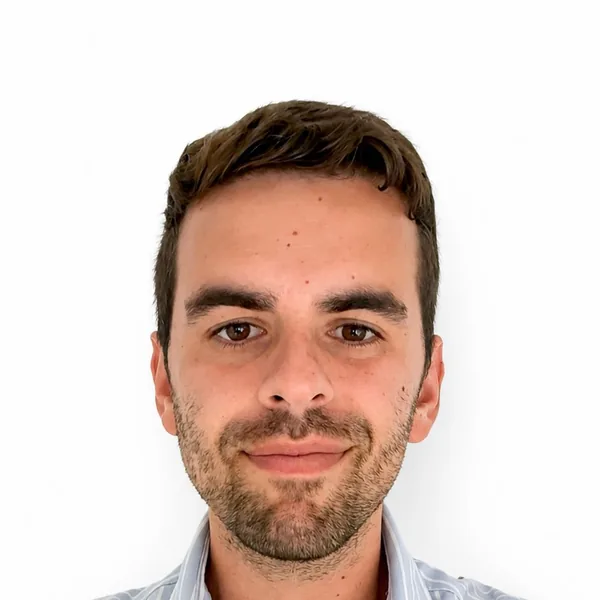
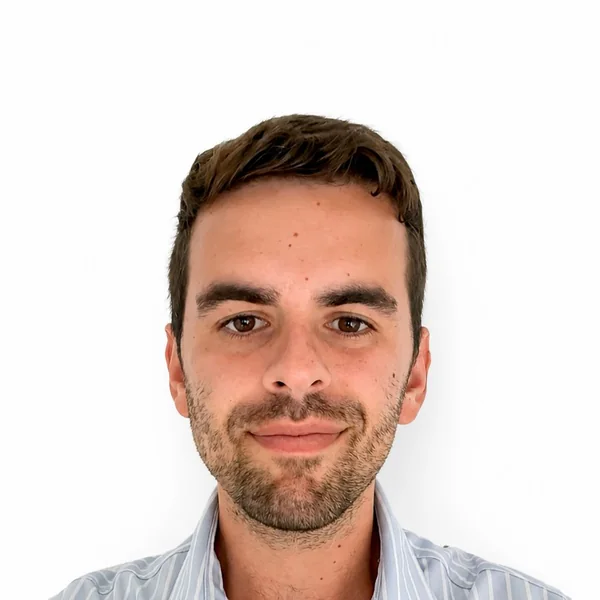
Ajustes de junta y directorio de socios
Socios:
- Se elimina el icono de email de las tarjetas.
- El de LinkedIn pasa a la derecha del nombre, en la misma linea.
- Nombres a nombre + primer apellido. Ester Gomez Quintero se mantiene
  completo: Gomez Quintero es su primer apellido compuesto.

Junta Directiva (Home): solo las caras, en una sola fila. Sin nombre, cargo
ni iconos. El nombre queda como title para quien pase el raton y para
lectores de pantalla.

Encuadres corregidos:
- Juan Francisco, Maria del Mar y Raquel: recorte mas cerrado y centrado en
  la cara, que quedaba alta.
- Juan Alberto: alejado con relleno blanco lateral, aprovechando que su fondo
  es blanco uniforme hasta la altura de los hombros.

Changed region(s): [[0.06, 0.15, 0.96, 1.0]]

diff --git a/Acceso al repositorio lgmp-web/Socios LGMP.dc.html b/Acceso al repositorio lgmp-web/Socios LGMP.dc.html
@@ -64,84 +64,71 @@
         <div data-reveal="true" style="background:#ffffff;border:1px solid rgba(30,42,74,.07);border-radius:22px;overflow:hidden;display:flex;flex-direction:column;transition:transform .25s,box-shadow .25s" style-hover="transform:translateY(-6px);box-shadow:0 18px 40px rgba(30,42,74,.14)">
           <div style="height:300px"><image-slot id="socio-juan-francisco-lopez" shape="rect" placeholder="Foto del socio" src="assets/equipo/juan-francisco-lopez.webp"></image-slot></div>
           <div style="padding:24px 24px 28px;display:flex;flex-direction:column;gap:6px;text-align:left">
-            <h3 style="font-family:'Nunito',sans-serif;font-weight:800;font-size:20px;color:#1E2A4A;margin:0">Juan Francisco López Haro</h3>
+            <div style="display:flex;align-items:center;justify-content:space-between;gap:12px">
+              <h3 style="font-family:'Nunito',sans-serif;font-weight:800;font-size:20px;color:#1E2A4A;margin:0">Juan Francisco López</h3><a href="https://www.linkedin.com/in/juanfranciscolopezharo/" target="_blank" rel="noopener" aria-label="LinkedIn de Juan Francisco López" style="flex:0 0 auto;background:#1E2A4A;color:#ffffff;display:inline-flex;align-items:center;justify-content:center;width:32px;height:32px;border-radius:999px" style-hover="background:#F0503C;color:#ffffff"><svg width="16" height="16" viewBox="0 0 24 24" fill="currentColor"><path d="M4.98 3.5C4.98 4.88 3.87 6 2.5 6S0 4.88 0 3.5 1.12 1 2.5 1 4.98 2.12 4.98 3.5zM.5 8.5h4V23h-4V8.5zM8.5 8.5h3.83v1.98h.05c.53-1 1.83-2.06 3.77-2.06 4.03 0 4.78 2.66 4.78 6.11V23h-4v-6.66c0-1.59-.03-3.63-2.21-3.63-2.22 0-2.56 1.73-2.56 3.52V23h-4V8.5z"/></svg></a>
+            </div>
             <p style="font-family:'Nunito',sans-serif;font-weight:700;font-size:12.5px;letter-spacing:.12em;text-transform:uppercase;color:#F0503C;margin:0">Presidente</p>
             <p style="font-size:14.5px;line-height:1.5;color:rgba(30,42,74,.65);margin:2px 0 0">Growth Manager · FANDIT</p>
-            <div style="display:flex;gap:10px;margin-top:12px">
-              <a href="https://www.linkedin.com/in/juanfranciscolopezharo/" target="_blank" rel="noopener" aria-label="LinkedIn de Juan Francisco López Haro" style="background:#1E2A4A;color:#ffffff;display:inline-flex;align-items:center;justify-content:center;width:38px;height:38px;border-radius:999px" style-hover="background:#F0503C;color:#ffffff"><svg width="18" height="18" viewBox="0 0 24 24" fill="currentColor"><path d="M4.98 3.5C4.98 4.88 3.87 6 2.5 6S0 4.88 0 3.5 1.12 1 2.5 1 4.98 2.12 4.98 3.5zM.5 8.5h4V23h-4V8.5zM8.5 8.5h3.83v1.98h.05c.53-1 1.83-2.06 3.77-2.06 4.03 0 4.78 2.66 4.78 6.11V23h-4v-6.66c0-1.59-.03-3.63-2.21-3.63-2.22 0-2.56 1.73-2.56 3.52V23h-4V8.5z"/></svg></a>
-              <a href="mailto:hola@lageneracionmejorpreparada.com" aria-label="Email" style="border:1.5px solid rgba(30,42,74,.25);color:#1E2A4A;display:inline-flex;align-items:center;justify-content:center;width:38px;height:38px;border-radius:999px" style-hover="border-color:#F0503C;color:#F0503C"><svg width="18" height="18" viewBox="0 0 24 24" fill="none" stroke="currentColor" stroke-width="2" stroke-linecap="round" stroke-linejoin="round"><rect x="3" y="5" width="18" height="14" rx="2"></rect><path d="M3 7l9 6 9-6"></path></svg></a>
-            </div>
           </div>
         </div>
         <div data-reveal="true" style="background:#ffffff;border:1px solid rgba(30,42,74,.07);border-radius:22px;overflow:hidden;display:flex;flex-direction:column;transition:transform .25s,box-shadow .25s" style-hover="transform:translateY(-6px);box-shadow:0 18px 40px rgba(30,42,74,.14)">
           <div style="height:300px"><image-slot id="socio-maria-del-mar-lopez" shape="rect" placeholder="Foto del socio" src="assets/equipo/maria-del-mar-lopez.webp"></image-slot></div>
           <div style="padding:24px 24px 28px;display:flex;flex-direction:column;gap:6px;text-align:left">
-            <h3 style="font-family:'Nunito',sans-serif;font-weight:800;font-size:20px;color:#1E2A4A;margin:0">María del Mar López Haro</h3>
+            <div style="display:flex;align-items:center;justify-content:space-between;gap:12px">
+              <h3 style="font-family:'Nunito',sans-serif;font-weight:800;font-size:20px;color:#1E2A4A;margin:0">María del Mar López</h3><a href="https://www.linkedin.com/in/mariamarlopezharo/" target="_blank" rel="noopener" aria-label="LinkedIn de María del Mar López" style="flex:0 0 auto;background:#1E2A4A;color:#ffffff;display:inline-flex;align-items:center;justify-content:center;width:32px;height:32px;border-radius:999px" style-hover="background:#F0503C;color:#ffffff"><svg width="16" height="16" viewBox="0 0 24 24" fill="currentColor"><path d="M4.98 3.5C4.98 4.88 3.87 6 2.5 6S0 4.88 0 3.5 1.12 1 2.5 1 4.98 2.12 4.98 3.5zM.5 8.5h4V23h-4V8.5zM8.5 8.5h3.83v1.98h.05c.53-1 1.83-2.06 3.77-2.06 4.03 0 4.78 2.66 4.78 6.11V23h-4v-6.66c0-1.59-.03-3.63-2.21-3.63-2.22 0-2.56 1.73-2.56 3.52V23h-4V8.5z"/></svg></a>
+            </div>
             <p style="font-family:'Nunito',sans-serif;font-weight:700;font-size:12.5px;letter-spacing:.12em;text-transform:uppercase;color:#F0503C;margin:0">Secretaria</p>
             <p style="font-size:14.5px;line-height:1.5;color:rgba(30,42,74,.65);margin:2px 0 0">HR Specialist · Sacyr</p>
-            <div style="display:flex;gap:10px;margin-top:12px">
-              <a href="https://www.linkedin.com/in/mariamarlopezharo/" target="_blank" rel="noopener" aria-label="LinkedIn de María del Mar López Haro" style="background:#1E2A4A;color:#ffffff;display:inline-flex;align-items:center;justify-content:center;width:38px;height:38px;border-radius:999px" style-hover="background:#F0503C;color:#ffffff"><svg width="18" height="18" viewBox="0 0 24 24" fill="currentColor"><path d="M4.98 3.5C4.98 4.88 3.87 6 2.5 6S0 4.88 0 3.5 1.12 1 2.5 1 4.98 2.12 4.98 3.5zM.5 8.5h4V23h-4V8.5zM8.5 8.5h3.83v1.98h.05c.53-1 1.83-2.06 3.77-2.06 4.03 0 4.78 2.66 4.78 6.11V23h-4v-6.66c0-1.59-.03-3.63-2.21-3.63-2.22 0-2.56 1.73-2.56 3.52V23h-4V8.5z"/></svg></a>
-              <a href="mailto:hola@lageneracionmejorpreparada.com" aria-label="Email" style="border:1.5px solid rgba(30,42,74,.25);color:#1E2A4A;display:inline-flex;align-items:center;justify-content:center;width:38px;height:38px;border-radius:999px" style-hover="border-color:#F0503C;color:#F0503C"><svg width="18" height="18" viewBox="0 0 24 24" fill="none" stroke="currentColor" stroke-width="2" stroke-linecap="round" stroke-linejoin="round"><rect x="3" y="5" width="18" height="14" rx="2"></rect><path d="M3 7l9 6 9-6"></path></svg></a>
-            </div>
           </div>
         </div>
         <div data-reveal="true" style="background:#ffffff;border:1px solid rgba(30,42,74,.07);border-radius:22px;overflow:hidden;display:flex;flex-direction:column;transition:transform .25s,box-shadow .25s" style-hover="transform:translateY(-6px);box-shadow:0 18px 40px rgba(30,42,74,.14)">
           <div style="height:300px"><image-slot id="socio-juan-alberto-correas" shape="rect" placeholder="Foto del socio" src="assets/equipo/juan-alberto-correas.webp"></image-slot></div>
           <div style="padding:24px 24px 28px;display:flex;flex-direction:column;gap:6px;text-align:left">
-            <h3 style="font-family:'Nunito',sans-serif;font-weight:800;font-size:20px;color:#1E2A4A;margin:0">Juan Alberto Correas García</h3>
+            <div style="display:flex;align-items:center;justify-content:space-between;gap:12px">
+              <h3 style="font-family:'Nunito',sans-serif;font-weight:800;font-size:20px;color:#1E2A4A;margin:0">Juan Alberto Correas</h3><a href="https://www.linkedin.com/in/juanalbertocorreas/" target="_blank" rel="noopener" aria-label="LinkedIn de Juan Alberto Correas" style="flex:0 0 auto;background:#1E2A4A;color:#ffffff;display:inline-flex;align-items:center;justify-content:center;width:32px;height:32px;border-radius:999px" style-hover="background:#F0503C;color:#ffffff"><svg width="16" height="16" viewBox="0 0 24 24" fill="currentColor"><path d="M4.98 3.5C4.98 4.88 3.87 6 2.5 6S0 4.88 0 3.5 1.12 1 2.5 1 4.98 2.12 4.98 3.5zM.5 8.5h4V23h-4V8.5zM8.5 8.5h3.83v1.98h.05c.53-1 1.83-2.06 3.77-2.06 4.03 0 4.78 2.66 4.78 6.11V23h-4v-6.66c0-1.59-.03-3.63-2.21-3.63-2.22 0-2.56 1.73-2.56 3.52V23h-4V8.5z"/></svg></a>
+            </div>
             <p style="font-family:'Nunito',sans-serif;font-weight:700;font-size:12.5px;letter-spacing:.12em;text-transform:uppercase;color:#F0503C;margin:0">Tesorero</p>
             <p style="font-size:14.5px;line-height:1.5;color:rgba(30,42,74,.65);margin:2px 0 0">Director Financiero · New Capital 2000</p>
-            <div style="display:flex;gap:10px;margin-top:12px">
-              <a href="https://www.linkedin.com/in/juanalbertocorreas/" target="_blank" rel="noopener" aria-label="LinkedIn de Juan Alberto Correas García" style="background:#1E2A4A;color:#ffffff;display:inline-flex;align-items:center;justify-content:center;width:38px;height:38px;border-radius:999px" style-hover="background:#F0503C;color:#ffffff"><svg width="18" height="18" viewBox="0 0 24 24" fill="currentColor"><path d="M4.98 3.5C4.98 4.88 3.87 6 2.5 6S0 4.88 0 3.5 1.12 1 2.5 1 4.98 2.12 4.98 3.5zM.5 8.5h4V23h-4V8.5zM8.5 8.5h3.83v1.98h.05c.53-1 1.83-2.06 3.77-2.06 4.03 0 4.78 2.66 4.78 6.11V23h-4v-6.66c0-1.59-.03-3.63-2.21-3.63-2.22 0-2.56 1.73-2.56 3.52V23h-4V8.5z"/></svg></a>
-              <a href="mailto:hola@lageneracionmejorpreparada.com" aria-label="Email" style="border:1.5px solid rgba(30,42,74,.25);color:#1E2A4A;display:inline-flex;align-items:center;justify-content:center;width:38px;height:38px;border-radius:999px" style-hover="border-color:#F0503C;color:#F0503C"><svg width="18" height="18" viewBox="0 0 24 24" fill="none" stroke="currentColor" stroke-width="2" stroke-linecap="round" stroke-linejoin="round"><rect x="3" y="5" width="18" height="14" rx="2"></rect><path d="M3 7l9 6 9-6"></path></svg></a>
-            </div>
           </div>
         </div>
         <div data-reveal="true" style="background:#ffffff;border:1px solid rgba(30,42,74,.07);border-radius:22px;overflow:hidden;display:flex;flex-direction:column;transition:transform .25s,box-shadow .25s" style-hover="transform:translateY(-6px);box-shadow:0 18px 40px rgba(30,42,74,.14)">
           <div style="height:300px"><image-slot id="socio-raquel-martinez" shape="rect" placeholder="Foto del socio" src="assets/equipo/raquel-martinez.webp"></image-slot></div>
           <div style="padding:24px 24px 28px;display:flex;flex-direction:column;gap:6px;text-align:left">
-            <h3 style="font-family:'Nunito',sans-serif;font-weight:800;font-size:20px;color:#1E2A4A;margin:0">Raquel Martínez</h3>
+            <div style="display:flex;align-items:center;justify-content:space-between;gap:12px">
+              <h3 style="font-family:'Nunito',sans-serif;font-weight:800;font-size:20px;color:#1E2A4A;margin:0">Raquel Martínez</h3><a href="https://www.linkedin.com/in/raquelmartinezzn/" target="_blank" rel="noopener" aria-label="LinkedIn de Raquel Martínez" style="flex:0 0 auto;background:#1E2A4A;color:#ffffff;display:inline-flex;align-items:center;justify-content:center;width:32px;height:32px;border-radius:999px" style-hover="background:#F0503C;color:#ffffff"><svg width="16" height="16" viewBox="0 0 24 24" fill="currentColor"><path d="M4.98 3.5C4.98 4.88 3.87 6 2.5 6S0 4.88 0 3.5 1.12 1 2.5 1 4.98 2.12 4.98 3.5zM.5 8.5h4V23h-4V8.5zM8.5 8.5h3.83v1.98h.05c.53-1 1.83-2.06 3.77-2.06 4.03 0 4.78 2.66 4.78 6.11V23h-4v-6.66c0-1.59-.03-3.63-2.21-3.63-2.22 0-2.56 1.73-2.56 3.52V23h-4V8.5z"/></svg></a>
+            </div>
             <p style="font-family:'Nunito',sans-serif;font-weight:700;font-size:12.5px;letter-spacing:.12em;text-transform:uppercase;color:#F0503C;margin:0">Vocal</p>
             <p style="font-size:14.5px;line-height:1.5;color:rgba(30,42,74,.65);margin:2px 0 0">Sales Manager · SNAP</p>
-            <div style="display:flex;gap:10px;margin-top:12px">
-              <a href="https://www.linkedin.com/in/raquelmartinezzn/" target="_blank" rel="noopener" aria-label="LinkedIn de Raquel Martínez" style="background:#1E2A4A;color:#ffffff;display:inline-flex;align-items:center;justify-content:center;width:38px;height:38px;border-radius:999px" style-hover="background:#F0503C;color:#ffffff"><svg width="18" height="18" viewBox="0 0 24 24" fill="currentColor"><path d="M4.98 3.5C4.98 4.88 3.87 6 2.5 6S0 4.88 0 3.5 1.12 1 2.5 1 4.98 2.12 4.98 3.5zM.5 8.5h4V23h-4V8.5zM8.5 8.5h3.83v1.98h.05c.53-1 1.83-2.06 3.77-2.06 4.03 0 4.78 2.66 4.78 6.11V23h-4v-6.66c0-1.59-.03-3.63-2.21-3.63-2.22 0-2.56 1.73-2.56 3.52V23h-4V8.5z"/></svg></a>
-              <a href="mailto:hola@lageneracionmejorpreparada.com" aria-label="Email" style="border:1.5px solid rgba(30,42,74,.25);color:#1E2A4A;display:inline-flex;align-items:center;justify-content:center;width:38px;height:38px;border-radius:999px" style-hover="border-color:#F0503C;color:#F0503C"><svg width="18" height="18" viewBox="0 0 24 24" fill="none" stroke="currentColor" stroke-width="2" stroke-linecap="round" stroke-linejoin="round"><rect x="3" y="5" width="18" height="14" rx="2"></rect><path d="M3 7l9 6 9-6"></path></svg></a>
-            </div>
           </div>
         </div>
         <div data-reveal="true" style="background:#ffffff;border:1px solid rgba(30,42,74,.07);border-radius:22px;overflow:hidden;display:flex;flex-direction:column;transition:transform .25s,box-shadow .25s" style-hover="transform:translateY(-6px);box-shadow:0 18px 40px rgba(30,42,74,.14)">
           <div style="height:300px"><image-slot id="socio-ester-gomez" shape="rect" placeholder="Foto del socio" src="assets/equipo/ester-gomez.webp"></image-slot></div>
           <div style="padding:24px 24px 28px;display:flex;flex-direction:column;gap:6px;text-align:left">
-            <h3 style="font-family:'Nunito',sans-serif;font-weight:800;font-size:20px;color:#1E2A4A;margin:0">Ester Gómez Quintero</h3>
+            <div style="display:flex;align-items:center;justify-content:space-between;gap:12px">
+              <h3 style="font-family:'Nunito',sans-serif;font-weight:800;font-size:20px;color:#1E2A4A;margin:0">Ester Gómez Quintero</h3>
+            </div>
             <p style="font-family:'Nunito',sans-serif;font-weight:700;font-size:12.5px;letter-spacing:.12em;text-transform:uppercase;color:#F0503C;margin:0">Vocal</p>
             <p style="font-size:14.5px;line-height:1.5;color:rgba(30,42,74,.65);margin:2px 0 0">Educadora</p>
-            <div style="display:flex;gap:10px;margin-top:12px">
-              <a href="mailto:hola@lageneracionmejorpreparada.com" aria-label="Email" style="border:1.5px solid rgba(30,42,74,.25);color:#1E2A4A;display:inline-flex;align-items:center;justify-content:center;width:38px;height:38px;border-radius:999px" style-hover="border-color:#F0503C;color:#F0503C"><svg width="18" height="18" viewBox="0 0 24 24" fill="none" stroke="currentColor" stroke-width="2" stroke-linecap="round" stroke-linejoin="round"><rect x="3" y="5" width="18" height="14" rx="2"></rect><path d="M3 7l9 6 9-6"></path></svg></a>
-            </div>
           </div>
         </div>
         <div data-reveal="true" style="background:#ffffff;border:1px solid rgba(30,42,74,.07);border-radius:22px;overflow:hidden;display:flex;flex-direction:column;transition:transform .25s,box-shadow .25s" style-hover="transform:translateY(-6px);box-shadow:0 18px 40px rgba(30,42,74,.14)">
           <div style="height:300px"><image-slot id="socio-borja-villalgordo" shape="rect" placeholder="Foto del socio" src="assets/equipo/borja-villalgordo.webp"></image-slot></div>
           <div style="padding:24px 24px 28px;display:flex;flex-direction:column;gap:6px;text-align:left">
-            <h3 style="font-family:'Nunito',sans-serif;font-weight:800;font-size:20px;color:#1E2A4A;margin:0">Borja Villalgordo</h3>
+            <div style="display:flex;align-items:center;justify-content:space-between;gap:12px">
+              <h3 style="font-family:'Nunito',sans-serif;font-weight:800;font-size:20px;color:#1E2A4A;margin:0">Borja Villalgordo</h3><a href="https://www.linkedin.com/in/borjavillalgordo/" target="_blank" rel="noopener" aria-label="LinkedIn de Borja Villalgordo" style="flex:0 0 auto;background:#1E2A4A;color:#ffffff;display:inline-flex;align-items:center;justify-content:center;width:32px;height:32px;border-radius:999px" style-hover="background:#F0503C;color:#ffffff"><svg width="16" height="16" viewBox="0 0 24 24" fill="currentColor"><path d="M4.98 3.5C4.98 4.88 3.87 6 2.5 6S0 4.88 0 3.5 1.12 1 2.5 1 4.98 2.12 4.98 3.5zM.5 8.5h4V23h-4V8.5zM8.5 8.5h3.83v1.98h.05c.53-1 1.83-2.06 3.77-2.06 4.03 0 4.78 2.66 4.78 6.11V23h-4v-6.66c0-1.59-.03-3.63-2.21-3.63-2.22 0-2.56 1.73-2.56 3.52V23h-4V8.5z"/></svg></a>
+            </div>
             <p style="font-family:'Nunito',sans-serif;font-weight:700;font-size:12.5px;letter-spacing:.12em;text-transform:uppercase;color:#F0503C;margin:0">Vocal</p>
             <p style="font-size:14.5px;line-height:1.5;color:rgba(30,42,74,.65);margin:2px 0 0">Director Financiero · Navilens</p>
-            <div style="display:flex;gap:10px;margin-top:12px">
-              <a href="https://www.linkedin.com/in/borjavillalgordo/" target="_blank" rel="noopener" aria-label="LinkedIn de Borja Villalgordo" style="background:#1E2A4A;color:#ffffff;display:inline-flex;align-items:center;justify-content:center;width:38px;height:38px;border-radius:999px" style-hover="background:#F0503C;color:#ffffff"><svg width="18" height="18" viewBox="0 0 24 24" fill="currentColor"><path d="M4.98 3.5C4.98 4.88 3.87 6 2.5 6S0 4.88 0 3.5 1.12 1 2.5 1 4.98 2.12 4.98 3.5zM.5 8.5h4V23h-4V8.5zM8.5 8.5h3.83v1.98h.05c.53-1 1.83-2.06 3.77-2.06 4.03 0 4.78 2.66 4.78 6.11V23h-4v-6.66c0-1.59-.03-3.63-2.21-3.63-2.22 0-2.56 1.73-2.56 3.52V23h-4V8.5z"/></svg></a>
-              <a href="mailto:hola@lageneracionmejorpreparada.com" aria-label="Email" style="border:1.5px solid rgba(30,42,74,.25);color:#1E2A4A;display:inline-flex;align-items:center;justify-content:center;width:38px;height:38px;border-radius:999px" style-hover="border-color:#F0503C;color:#F0503C"><svg width="18" height="18" viewBox="0 0 24 24" fill="none" stroke="currentColor" stroke-width="2" stroke-linecap="round" stroke-linejoin="round"><rect x="3" y="5" width="18" height="14" rx="2"></rect><path d="M3 7l9 6 9-6"></path></svg></a>
-            </div>
           </div>
         </div>
         <div data-reveal="true" style="background:#ffffff;border:1px solid rgba(30,42,74,.07);border-radius:22px;overflow:hidden;display:flex;flex-direction:column;transition:transform .25s,box-shadow .25s" style-hover="transform:translateY(-6px);box-shadow:0 18px 40px rgba(30,42,74,.14)">
           <div style="height:300px"><image-slot id="socio-alvaro-morlan" shape="rect" placeholder="Foto del socio" src="assets/equipo/alvaro-morlan.webp"></image-slot></div>
           <div style="padding:24px 24px 28px;display:flex;flex-direction:column;gap:6px;text-align:left">
-            <h3 style="font-family:'Nunito',sans-serif;font-weight:800;font-size:20px;color:#1E2A4A;margin:0">Álvaro Morlán</h3>
+            <div style="display:flex;align-items:center;justify-content:space-between;gap:12px">
+              <h3 style="font-family:'Nunito',sans-serif;font-weight:800;font-size:20px;color:#1E2A4A;margin:0">Álvaro Morlán</h3><a href="https://www.linkedin.com/in/alvaro-morlan-melero-0759261ba/" target="_blank" rel="noopener" aria-label="LinkedIn de Álvaro Morlán" style="flex:0 0 auto;background:#1E2A4A;color:#ffffff;display:inline-flex;align-items:center;justify-content:center;width:32px;height:32px;border-radius:999px" style-hover="background:#F0503C;color:#ffffff"><svg width="16" height="16" viewBox="0 0 24 24" fill="currentColor"><path d="M4.98 3.5C4.98 4.88 3.87 6 2.5 6S0 4.88 0 3.5 1.12 1 2.5 1 4.98 2.12 4.98 3.5zM.5 8.5h4V23h-4V8.5zM8.5 8.5h3.83v1.98h.05c.53-1 1.83-2.06 3.77-2.06 4.03 0 4.78 2.66 4.78 6.11V23h-4v-6.66c0-1.59-.03-3.63-2.21-3.63-2.22 0-2.56 1.73-2.56 3.52V23h-4V8.5z"/></svg></a>
+            </div>
             <p style="font-family:'Nunito',sans-serif;font-weight:700;font-size:12.5px;letter-spacing:.12em;text-transform:uppercase;color:#F0503C;margin:0">Vocal</p>
             <p style="font-size:14.5px;line-height:1.5;color:rgba(30,42,74,.65);margin:2px 0 0">Fundador · Subvenplus</p>
-            <div style="display:flex;gap:10px;margin-top:12px">
-              <a href="https://www.linkedin.com/in/alvaro-morlan-melero-0759261ba/" target="_blank" rel="noopener" aria-label="LinkedIn de Álvaro Morlán" style="background:#1E2A4A;color:#ffffff;display:inline-flex;align-items:center;justify-content:center;width:38px;height:38px;border-radius:999px" style-hover="background:#F0503C;color:#ffffff"><svg width="18" height="18" viewBox="0 0 24 24" fill="currentColor"><path d="M4.98 3.5C4.98 4.88 3.87 6 2.5 6S0 4.88 0 3.5 1.12 1 2.5 1 4.98 2.12 4.98 3.5zM.5 8.5h4V23h-4V8.5zM8.5 8.5h3.83v1.98h.05c.53-1 1.83-2.06 3.77-2.06 4.03 0 4.78 2.66 4.78 6.11V23h-4v-6.66c0-1.59-.03-3.63-2.21-3.63-2.22 0-2.56 1.73-2.56 3.52V23h-4V8.5z"/></svg></a>
-              <a href="mailto:hola@lageneracionmejorpreparada.com" aria-label="Email" style="border:1.5px solid rgba(30,42,74,.25);color:#1E2A4A;display:inline-flex;align-items:center;justify-content:center;width:38px;height:38px;border-radius:999px" style-hover="border-color:#F0503C;color:#F0503C"><svg width="18" height="18" viewBox="0 0 24 24" fill="none" stroke="currentColor" stroke-width="2" stroke-linecap="round" stroke-linejoin="round"><rect x="3" y="5" width="18" height="14" rx="2"></rect><path d="M3 7l9 6 9-6"></path></svg></a>
-            </div>
           </div>
         </div>
       </div>

diff --git a/Acceso al repositorio lgmp-web/Home LGMP.dc.html b/Acceso al repositorio lgmp-web/Home LGMP.dc.html
@@ -131,48 +131,15 @@
       <div data-reveal="true" style="text-align:left;margin:0 0 48px">
         <h2 style="font-family:'Nunito',sans-serif;font-weight:900;font-size:clamp(28px,3.2vw,40px);line-height:1.12;color:#1E2A4A;margin:0">Junta Directiva</h2>
       </div>
-      <div style="display:flex;flex-wrap:wrap;justify-content:flex-start;gap:28px">
-        <div data-reveal="true" style="width:270px;background:#ffffff;border-radius:22px;padding:34px 24px;text-align:center;border:1px solid rgba(30,42,74,.07);transition:transform .25s,box-shadow .25s" style-hover="transform:translateY(-6px);box-shadow:0 18px 40px rgba(30,42,74,.14)">
-          <div style="width:150px;height:150px;margin:0 auto"><image-slot id="foto-presidente" shape="circle" placeholder="Foto" src="assets/equipo/juan-francisco-lopez.webp"></image-slot></div>
-          <h3 style="font-family:'Nunito',sans-serif;font-weight:800;font-size:20px;color:#1E2A4A;margin:20px 0 4px">Juan Francisco López Haro</h3>
-          <p style="font-family:'Nunito',sans-serif;font-weight:700;font-size:14px;letter-spacing:.08em;text-transform:uppercase;color:#F0503C;margin:0">Presidente</p>
-          <div style="display:flex;justify-content:center;margin-top:16px"><a href="https://www.linkedin.com/in/juanfranciscolopezharo/" target="_blank" rel="noopener" aria-label="LinkedIn de Juan Francisco López Haro" style="background:#1E2A4A;color:#ffffff;display:inline-flex;align-items:center;justify-content:center;width:38px;height:38px;border-radius:999px" style-hover="background:#F0503C;color:#ffffff"><svg width="18" height="18" viewBox="0 0 24 24" fill="currentColor"><path d="M4.98 3.5C4.98 4.88 3.87 6 2.5 6S0 4.88 0 3.5 1.12 1 2.5 1 4.98 2.12 4.98 3.5zM.5 8.5h4V23h-4V8.5zM8.5 8.5h3.83v1.98h.05c.53-1 1.83-2.06 3.77-2.06 4.03 0 4.78 2.66 4.78 6.11V23h-4v-6.66c0-1.59-.03-3.63-2.21-3.63-2.22 0-2.56 1.73-2.56 3.52V23h-4V8.5z"/></svg></a></div>
-        </div>
-        <div data-reveal="true" style="width:270px;background:#ffffff;border-radius:22px;padding:34px 24px;text-align:center;border:1px solid rgba(30,42,74,.07);transition:transform .25s,box-shadow .25s" style-hover="transform:translateY(-6px);box-shadow:0 18px 40px rgba(30,42,74,.14)">
-          <div style="width:150px;height:150px;margin:0 auto"><image-slot id="foto-secretaria" shape="circle" placeholder="Foto" src="assets/equipo/maria-del-mar-lopez.webp"></image-slot></div>
-          <h3 style="font-family:'Nunito',sans-serif;font-weight:800;font-size:20px;color:#1E2A4A;margin:20px 0 4px">María del Mar López Haro</h3>
-          <p style="font-family:'Nunito',sans-serif;font-weight:700;font-size:14px;letter-spacing:.08em;text-transform:uppercase;color:#F0503C;margin:0">Secretaria</p>
-          <div style="display:flex;justify-content:center;margin-top:16px"><a href="https://www.linkedin.com/in/mariamarlopezharo/" target="_blank" rel="noopener" aria-label="LinkedIn de María del Mar López Haro" style="background:#1E2A4A;color:#ffffff;display:inline-flex;align-items:center;justify-content:center;width:38px;height:38px;border-radius:999px" style-hover="background:#F0503C;color:#ffffff"><svg width="18" height="18" viewBox="0 0 24 24" fill="currentColor"><path d="M4.98 3.5C4.98 4.88 3.87 6 2.5 6S0 4.88 0 3.5 1.12 1 2.5 1 4.98 2.12 4.98 3.5zM.5 8.5h4V23h-4V8.5zM8.5 8.5h3.83v1.98h.05c.53-1 1.83-2.06 3.77-2.06 4.03 0 4.78 2.66 4.78 6.11V23h-4v-6.66c0-1.59-.03-3.63-2.21-3.63-2.22 0-2.56 1.73-2.56 3.52V23h-4V8.5z"/></svg></a></div>
-        </div>
-        <div data-reveal="true" style="width:270px;background:#ffffff;border-radius:22px;padding:34px 24px;text-align:center;border:1px solid rgba(30,42,74,.07);transition:transform .25s,box-shadow .25s" style-hover="transform:translateY(-6px);box-shadow:0 18px 40px rgba(30,42,74,.14)">
-          <div style="width:150px;height:150px;margin:0 auto"><image-slot id="foto-tesorero" shape="circle" placeholder="Foto" src="assets/equipo/juan-alberto-correas.webp"></image-slot></div>
-          <h3 style="font-family:'Nunito',sans-serif;font-weight:800;font-size:20px;color:#1E2A4A;margin:20px 0 4px">Juan Alberto Correas García</h3>
-          <p style="font-family:'Nunito',sans-serif;font-weight:700;font-size:14px;letter-spacing:.08em;text-transform:uppercase;color:#F0503C;margin:0">Tesorero</p>
-          <div style="display:flex;justify-content:center;margin-top:16px"><a href="https://www.linkedin.com/in/juanalbertocorreas/" target="_blank" rel="noopener" aria-label="LinkedIn de Juan Alberto Correas García" style="background:#1E2A4A;color:#ffffff;display:inline-flex;align-items:center;justify-content:center;width:38px;height:38px;border-radius:999px" style-hover="background:#F0503C;color:#ffffff"><svg width="18" height="18" viewBox="0 0 24 24" fill="currentColor"><path d="M4.98 3.5C4.98 4.88 3.87 6 2.5 6S0 4.88 0 3.5 1.12 1 2.5 1 4.98 2.12 4.98 3.5zM.5 8.5h4V23h-4V8.5zM8.5 8.5h3.83v1.98h.05c.53-1 1.83-2.06 3.77-2.06 4.03 0 4.78 2.66 4.78 6.11V23h-4v-6.66c0-1.59-.03-3.63-2.21-3.63-2.22 0-2.56 1.73-2.56 3.52V23h-4V8.5z"/></svg></a></div>
-        </div>
-        <div data-reveal="true" style="width:270px;background:#ffffff;border-radius:22px;padding:34px 24px;text-align:center;border:1px solid rgba(30,42,74,.07);transition:transform .25s,box-shadow .25s" style-hover="transform:translateY(-6px);box-shadow:0 18px 40px rgba(30,42,74,.14)">
-          <div style="width:150px;height:150px;margin:0 auto"><image-slot id="foto-vocal-raquel" shape="circle" placeholder="Foto" src="assets/equipo/raquel-martinez.webp"></image-slot></div>
-          <h3 style="font-family:'Nunito',sans-serif;font-weight:800;font-size:20px;color:#1E2A4A;margin:20px 0 4px">Raquel Martínez</h3>
-          <p style="font-family:'Nunito',sans-serif;font-weight:700;font-size:14px;letter-spacing:.08em;text-transform:uppercase;color:#F0503C;margin:0">Vocal</p>
-          <div style="display:flex;justify-content:center;margin-top:16px"><a href="https://www.linkedin.com/in/raquelmartinezzn/" target="_blank" rel="noopener" aria-label="LinkedIn de Raquel Martínez" style="background:#1E2A4A;color:#ffffff;display:inline-flex;align-items:center;justify-content:center;width:38px;height:38px;border-radius:999px" style-hover="background:#F0503C;color:#ffffff"><svg width="18" height="18" viewBox="0 0 24 24" fill="currentColor"><path d="M4.98 3.5C4.98 4.88 3.87 6 2.5 6S0 4.88 0 3.5 1.12 1 2.5 1 4.98 2.12 4.98 3.5zM.5 8.5h4V23h-4V8.5zM8.5 8.5h3.83v1.98h.05c.53-1 1.83-2.06 3.77-2.06 4.03 0 4.78 2.66 4.78 6.11V23h-4v-6.66c0-1.59-.03-3.63-2.21-3.63-2.22 0-2.56 1.73-2.56 3.52V23h-4V8.5z"/></svg></a></div>
-        </div>
-        <div data-reveal="true" style="width:270px;background:#ffffff;border-radius:22px;padding:34px 24px;text-align:center;border:1px solid rgba(30,42,74,.07);transition:transform .25s,box-shadow .25s" style-hover="transform:translateY(-6px);box-shadow:0 18px 40px rgba(30,42,74,.14)">
-          <div style="width:150px;height:150px;margin:0 auto"><image-slot id="foto-vocal-ester" shape="circle" placeholder="Foto" src="assets/equipo/ester-gomez.webp"></image-slot></div>
-          <h3 style="font-family:'Nunito',sans-serif;font-weight:800;font-size:20px;color:#1E2A4A;margin:20px 0 4px">Ester Gómez Quintero</h3>
-          <p style="font-family:'Nunito',sans-serif;font-weight:700;font-size:14px;letter-spacing:.08em;text-transform:uppercase;color:#F0503C;margin:0">Vocal</p>
-        </div>
-        <div data-reveal="true" style="width:270px;background:#ffffff;border-radius:22px;padding:34px 24px;text-align:center;border:1px solid rgba(30,42,74,.07);transition:transform .25s,box-shadow .25s" style-hover="transform:translateY(-6px);box-shadow:0 18px 40px rgba(30,42,74,.14)">
-          <div style="width:150px;height:150px;margin:0 auto"><image-slot id="foto-vocal-borja" shape="circle" placeholder="Foto" src="assets/equipo/borja-villalgordo.webp"></image-slot></div>
-          <h3 style="font-family:'Nunito',sans-serif;font-weight:800;font-size:20px;color:#1E2A4A;margin:20px 0 4px">Borja Villalgordo</h3>
-          <p style="font-family:'Nunito',sans-serif;font-weight:700;font-size:14px;letter-spacing:.08em;text-transform:uppercase;color:#F0503C;margin:0">Vocal</p>
-          <div style="display:flex;justify-content:center;margin-top:16px"><a href="https://www.linkedin.com/in/borjavillalgordo/" target="_blank" rel="noopener" aria-label="LinkedIn de Borja Villalgordo" style="background:#1E2A4A;color:#ffffff;display:inline-flex;align-items:center;justify-content:center;width:38px;height:38px;border-radius:999px" style-hover="background:#F0503C;color:#ffffff"><svg width="18" height="18" viewBox="0 0 24 24" fill="currentColor"><path d="M4.98 3.5C4.98 4.88 3.87 6 2.5 6S0 4.88 0 3.5 1.12 1 2.5 1 4.98 2.12 4.98 3.5zM.5 8.5h4V23h-4V8.5zM8.5 8.5h3.83v1.98h.05c.53-1 1.83-2.06 3.77-2.06 4.03 0 4.78 2.66 4.78 6.11V23h-4v-6.66c0-1.59-.03-3.63-2.21-3.63-2.22 0-2.56 1.73-2.56 3.52V23h-4V8.5z"/></svg></a></div>
-        </div>
-        <div data-reveal="true" style="width:270px;background:#ffffff;border-radius:22px;padding:34px 24px;text-align:center;border:1px solid rgba(30,42,74,.07);transition:transform .25s,box-shadow .25s" style-hover="transform:translateY(-6px);box-shadow:0 18px 40px rgba(30,42,74,.14)">
-          <div style="width:150px;height:150px;margin:0 auto"><image-slot id="foto-vocal-alvaro" shape="circle" placeholder="Foto" src="assets/equipo/alvaro-morlan.webp"></image-slot></div>
-          <h3 style="font-family:'Nunito',sans-serif;font-weight:800;font-size:20px;color:#1E2A4A;margin:20px 0 4px">Álvaro Morlán</h3>
-          <p style="font-family:'Nunito',sans-serif;font-weight:700;font-size:14px;letter-spacing:.08em;text-transform:uppercase;color:#F0503C;margin:0">Vocal</p>
-          <div style="display:flex;justify-content:center;margin-top:16px"><a href="https://www.linkedin.com/in/alvaro-morlan-melero-0759261ba/" target="_blank" rel="noopener" aria-label="LinkedIn de Álvaro Morlán" style="background:#1E2A4A;color:#ffffff;display:inline-flex;align-items:center;justify-content:center;width:38px;height:38px;border-radius:999px" style-hover="background:#F0503C;color:#ffffff"><svg width="18" height="18" viewBox="0 0 24 24" fill="currentColor"><path d="M4.98 3.5C4.98 4.88 3.87 6 2.5 6S0 4.88 0 3.5 1.12 1 2.5 1 4.98 2.12 4.98 3.5zM.5 8.5h4V23h-4V8.5zM8.5 8.5h3.83v1.98h.05c.53-1 1.83-2.06 3.77-2.06 4.03 0 4.78 2.66 4.78 6.11V23h-4v-6.66c0-1.59-.03-3.63-2.21-3.63-2.22 0-2.56 1.73-2.56 3.52V23h-4V8.5z"/></svg></a></div>
-        </div>
+      <div style="display:flex;flex-wrap:nowrap;justify-content:center;align-items:center;gap:clamp(10px,1.8vw,26px);overflow-x:auto;padding:6px 0">
+        <div data-reveal="true" title="Juan Francisco López" style="flex:0 0 auto;width:clamp(96px,11vw,150px);height:clamp(96px,11vw,150px);transition:transform .25s" style-hover="transform:translateY(-6px)"><image-slot id="foto-presidente" shape="circle" placeholder="Foto" src="assets/equipo/juan-francisco-lopez.webp"></image-slot></div>
+        <div data-reveal="true" title="María del Mar López" style="flex:0 0 auto;width:clamp(96px,11vw,150px);height:clamp(96px,11vw,150px);transition:transform .25s" style-hover="transform:translateY(-6px)"><image-slot id="foto-secretaria" shape="circle" placeholder="Foto" src="assets/equipo/maria-del-mar-lopez.webp"></image-slot></div>
+        <div data-reveal="true" title="Juan Alberto Correas" style="flex:0 0 auto;width:clamp(96px,11vw,150px);height:clamp(96px,11vw,150px);transition:transform .25s" style-hover="transform:translateY(-6px)"><image-slot id="foto-tesorero" shape="circle" placeholder="Foto" src="assets/equipo/juan-alberto-correas.webp"></image-slot></div>
+        <div data-reveal="true" title="Raquel Martínez" style="flex:0 0 auto;width:clamp(96px,11vw,150px);height:clamp(96px,11vw,150px);transition:transform .25s" style-hover="transform:translateY(-6px)"><image-slot id="foto-vocal-raquel" shape="circle" placeholder="Foto" src="assets/equipo/raquel-martinez.webp"></image-slot></div>
+        <div data-reveal="true" title="Ester Gómez Quintero" style="flex:0 0 auto;width:clamp(96px,11vw,150px);height:clamp(96px,11vw,150px);transition:transform .25s" style-hover="transform:translateY(-6px)"><image-slot id="foto-vocal-ester" shape="circle" placeholder="Foto" src="assets/equipo/ester-gomez.webp"></image-slot></div>
+        <div data-reveal="true" title="Borja Villalgordo" style="flex:0 0 auto;width:clamp(96px,11vw,150px);height:clamp(96px,11vw,150px);transition:transform .25s" style-hover="transform:translateY(-6px)"><image-slot id="foto-vocal-borja" shape="circle" placeholder="Foto" src="assets/equipo/borja-villalgordo.webp"></image-slot></div>
+        <div data-reveal="true" title="Álvaro Morlán" style="flex:0 0 auto;width:clamp(96px,11vw,150px);height:clamp(96px,11vw,150px);transition:transform .25s" style-hover="transform:translateY(-6px)"><image-slot id="foto-vocal-alvaro" shape="circle" placeholder="Foto" src="assets/equipo/alvaro-morlan.webp"></image-slot></div>
+      
       </div>
     </div>
   </section>
